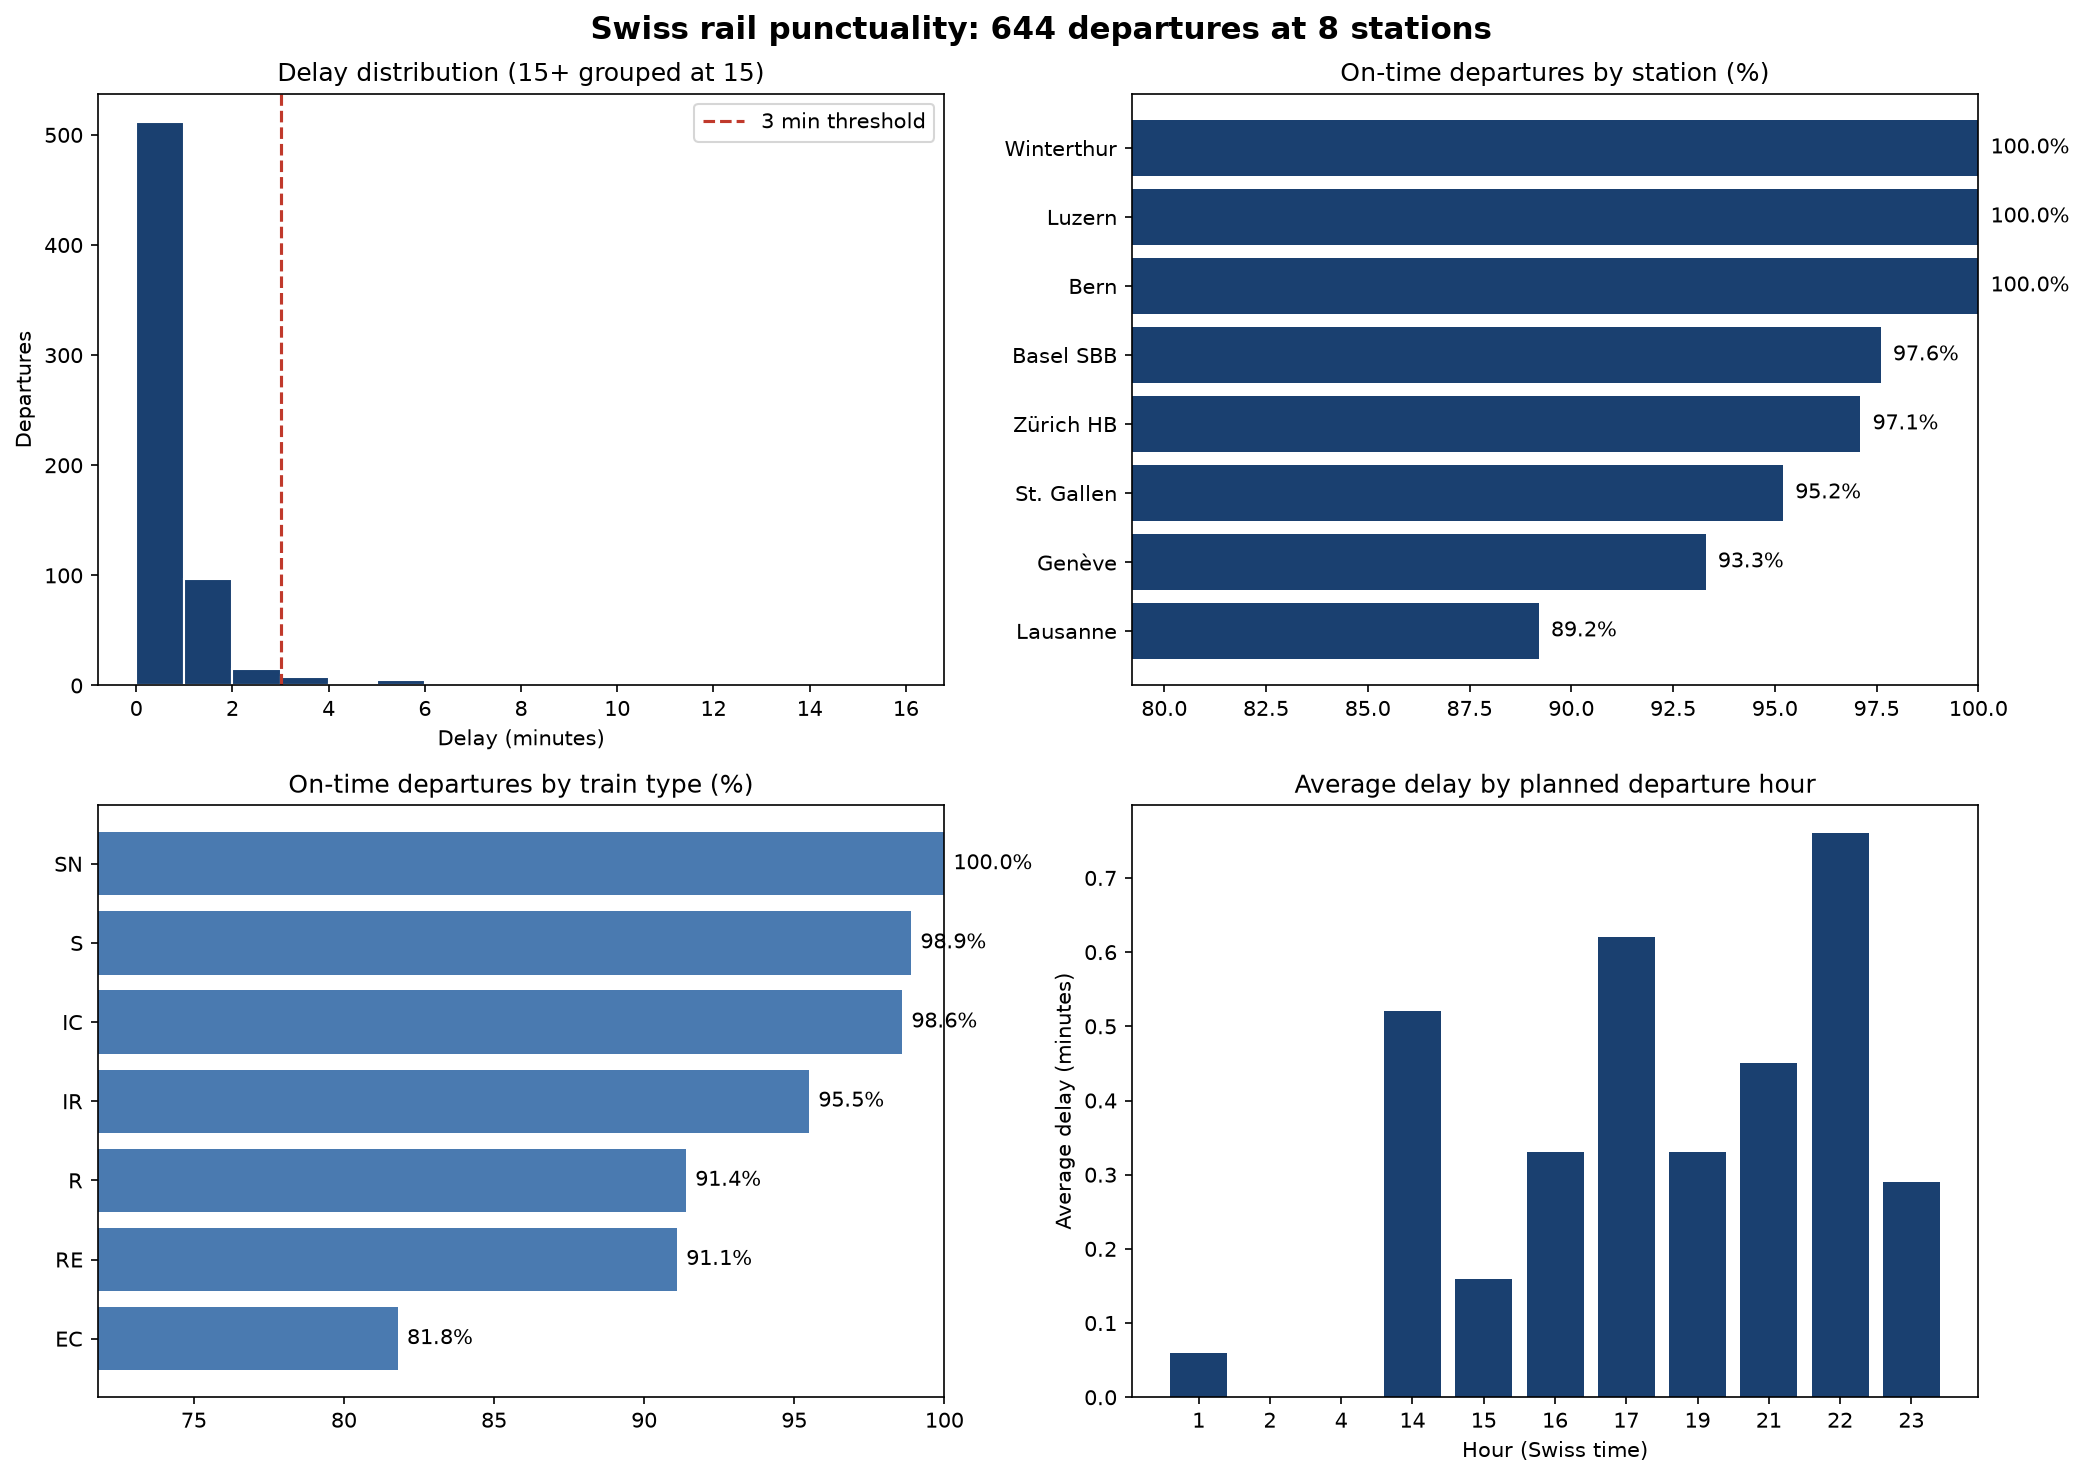
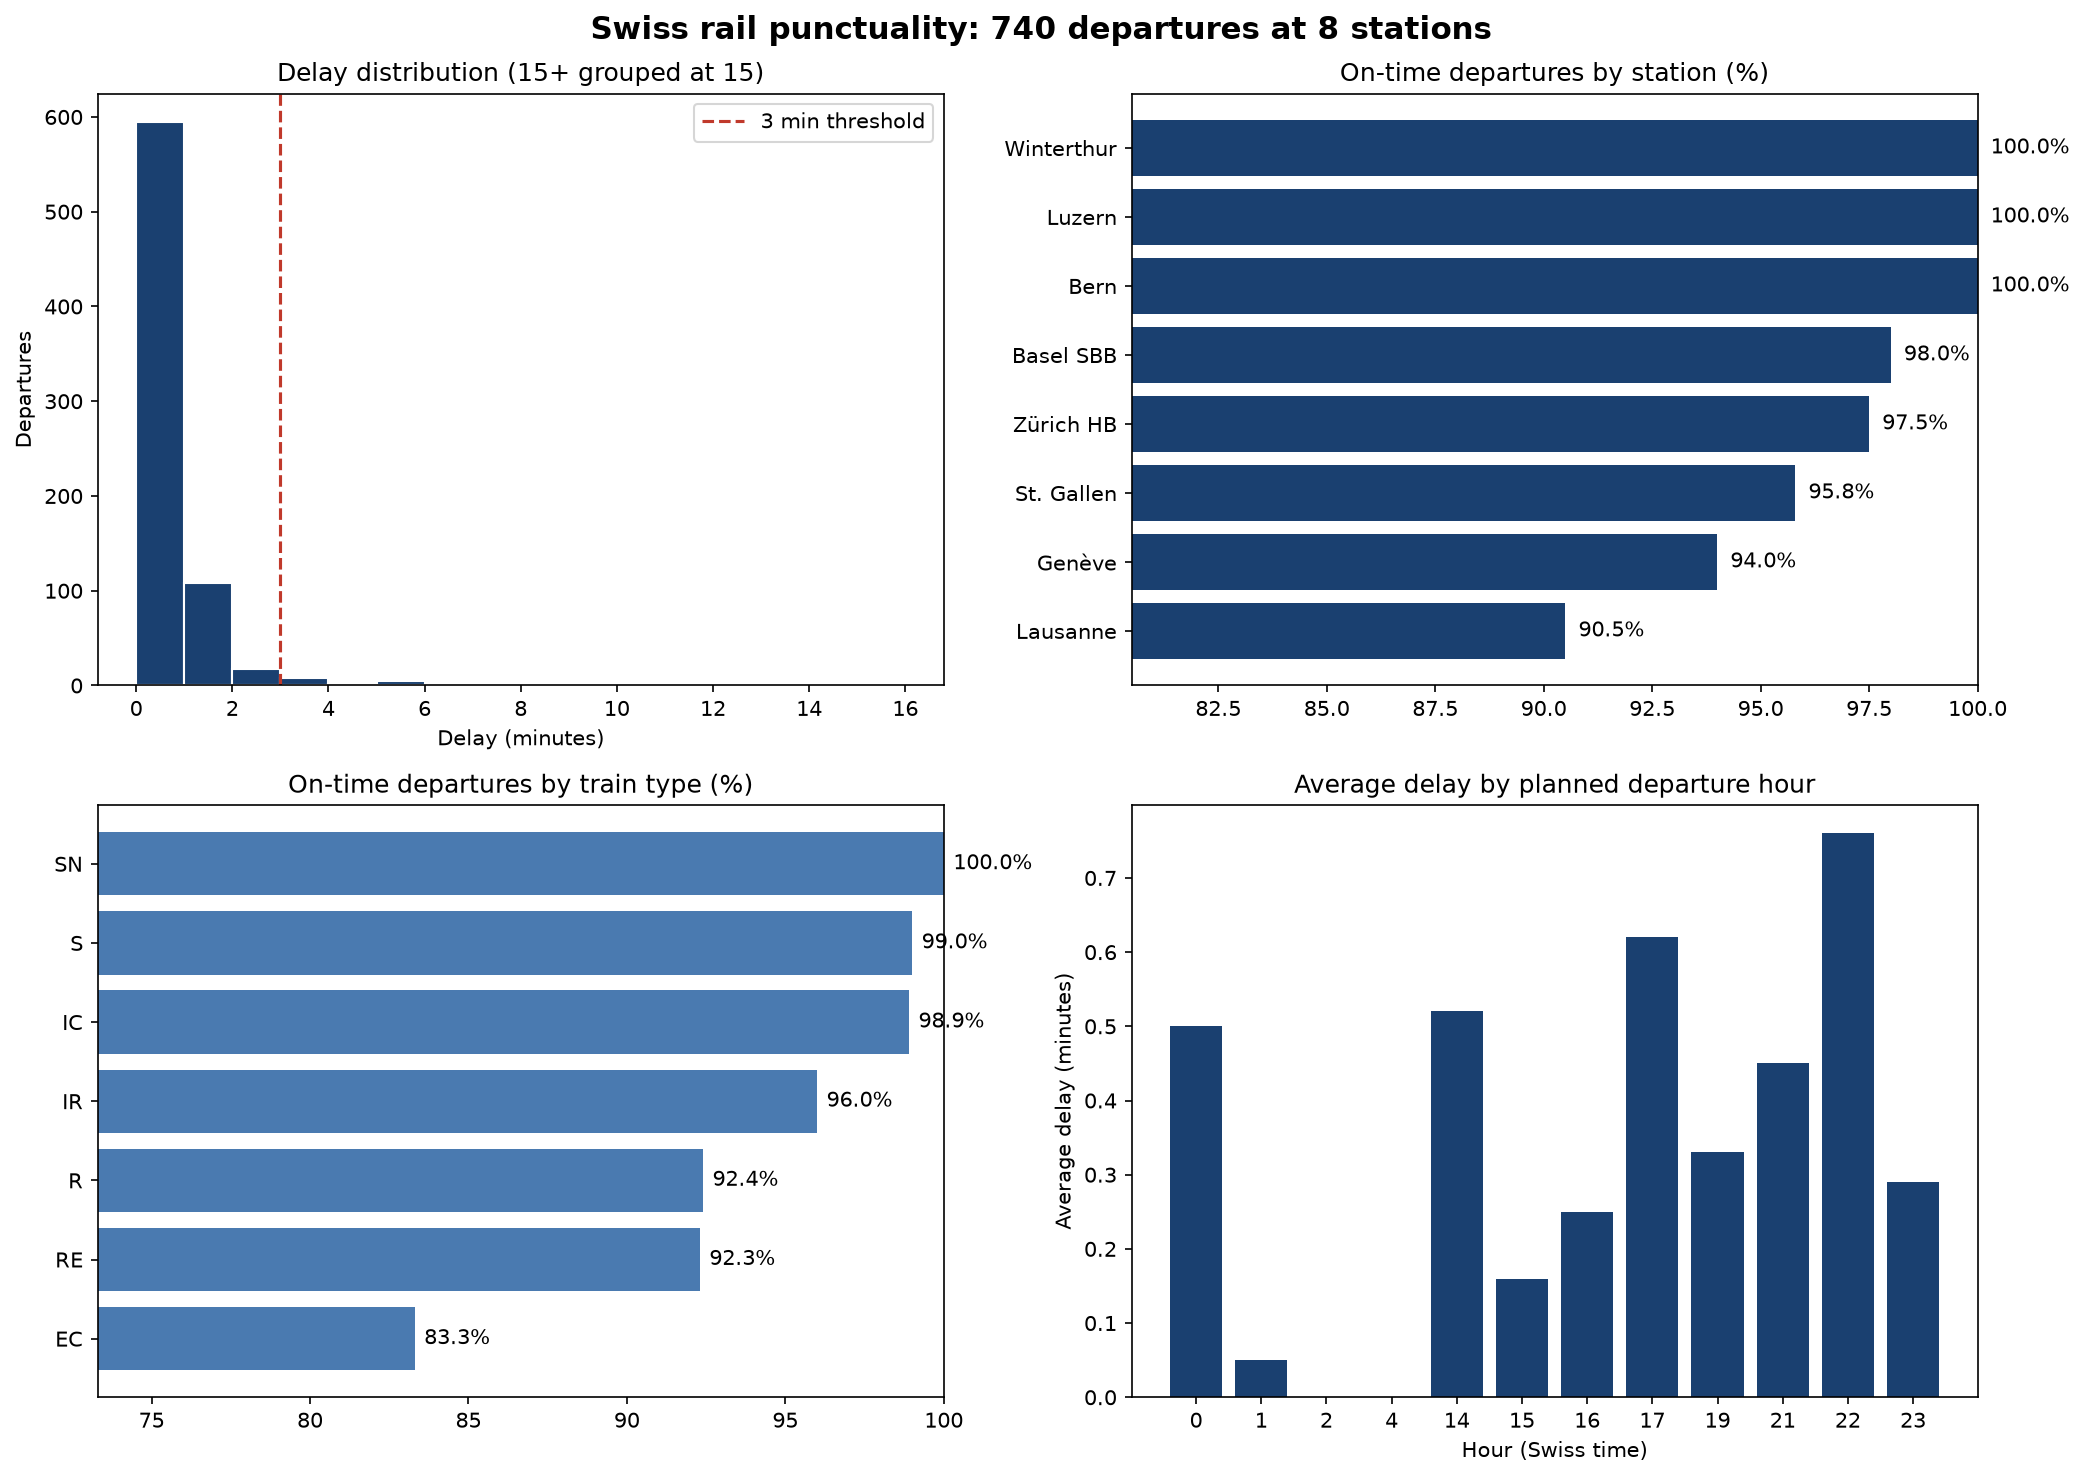
report: update results

diff --git a/reports/summary.md b/reports/summary.md
@@ -1,14 +1,14 @@
 # Latest results
 
-Data from 2026-11-19 19:38 to 2026-11-25 01:09 (Swiss time), 7 day file(s), 14 snapshots.
+Data from 2026-11-19 19:38 to 2026-11-26 00:45 (Swiss time), 8 day file(s), 16 snapshots.
 
-- Rows collected: 931
-- Unique departures: 931
-- Departures analysed (close to departure, with delay data): 644
-- On time (under 3 min late): 96.9%
-- Average delay: 0.41 min
-- 5+ min late: 1.6%
-- Lowest on-time rate: Lausanne (89.2%)
+- Rows collected: 1,066
+- Unique departures: 1,066
+- Departures analysed (close to departure, with delay data): 740
+- On time (under 3 min late): 97.3%
+- Average delay: 0.38 min
+- 5+ min late: 1.4%
+- Lowest on-time rate: Lausanne (90.5%)
 
 ## Data quality
 
